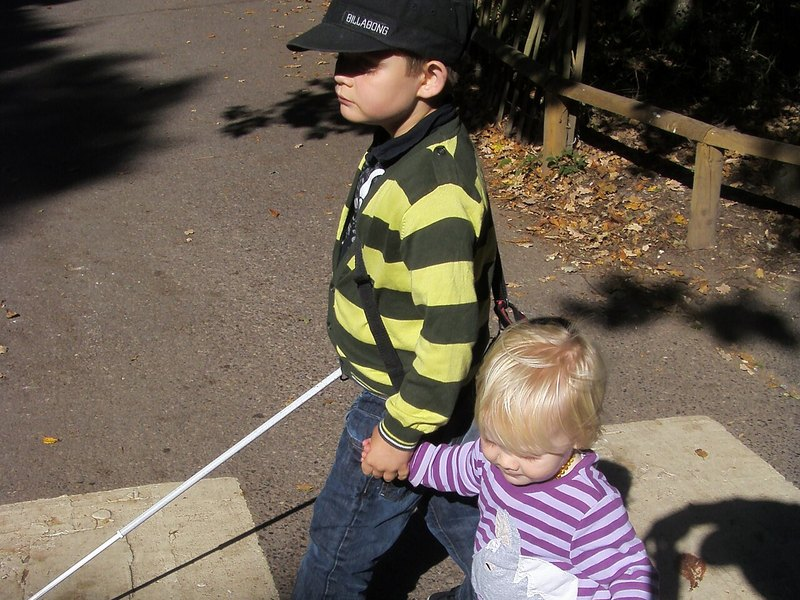
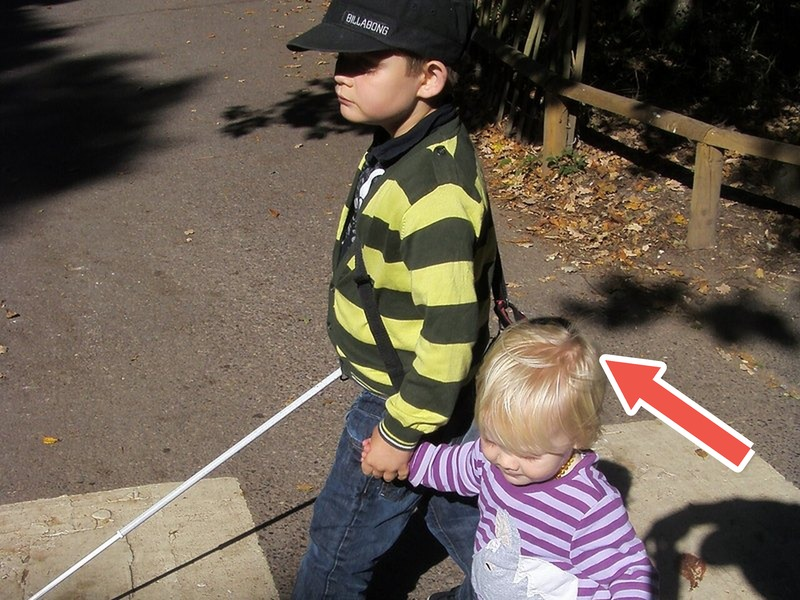
cards: 第25巻の언니を女の子どうしの姉妹に見える写真（Basile Morin・CC BY-SA 4.0）に、누나を女の子のほうが大きく男の子が小さい写真（MacGraceSmez・CC BY-SA 4.0）に差し替え、언니・오빠・누나・형・동생 の5語に白フチ付きのコーラル色の矢印を加筆・PHOTO_VER=17・クレジット更新

Changed region(s): [[0.75, 0.57, 0.9375, 0.81]]

diff --git a/cards.html b/cards.html
@@ -1175,11 +1175,11 @@ var VOLUMES = [
   "25-appa": { f: "assets/photos/v25-appa.jpg", a: "Onkelbo~commonswiki", l: "CC BY-SA 3.0", u: "https://commons.wikimedia.org/wiki/File:Father_and_son_27.jpg" },
   "25-halmeoni": { f: "assets/photos/v25-halmeoni.jpg", a: "Split the Kipper", l: "CC BY 2.0", u: "https://commons.wikimedia.org/wiki/File:Grandmas_90th_Birthday-36.jpg" },
   "25-harabeoji": { f: "assets/photos/v25-harabeoji.jpg", a: "Bogdanov-62", l: "CC BY-SA 3.0", u: "https://commons.wikimedia.org/wiki/File:Grandfather_rus.jpg" },
-  "25-eonni": { f: "assets/photos/v25-eonni.jpg", a: "Jamie Rudolph", l: "CC BY-SA 4.0", u: "https://commons.wikimedia.org/wiki/File:Jamie_and_Nora_Rudolph.JPG" },
-  "25-oppa": { f: "assets/photos/v25-oppa.jpg", a: "Rod Waddington from Kergunyah, Australia", l: "CC BY-SA 2.0", u: "https://commons.wikimedia.org/wiki/File:Brother_and_Sister,_Yemen_(10569460956).jpg" },
-  "25-nuna": { f: "assets/photos/v25-nuna.jpg", a: "Celebindiaworld", l: "CC BY-SA 4.0", u: "https://commons.wikimedia.org/wiki/File:Siblings_brother_and_sister.jpg" },
-  "25-hyeong": { f: "assets/photos/v25-hyeong.jpg", a: "Luis Miguel Bugallo Sánchez", l: "CC BY-SA 4.0", u: "https://commons.wikimedia.org/wiki/File:Irm%C3%A1ns._S%C3%B3_os_irm%C3%A1ns_se_comportan_as%C3%AD_-_1.jpg" },
-  "25-dongsaeng": { f: "assets/photos/v25-dongsaeng.jpg", a: "Sariain", l: "Public domain", u: "https://commons.wikimedia.org/wiki/File:Lucas_Murray.jpg" },
+  "25-eonni": { f: "assets/photos/v25-eonni.jpg", a: "Basile Morin", l: "CC BY-SA 4.0", u: "https://commons.wikimedia.org/wiki/File:Two_little_Lao_girls_hugging.jpg", m: "矢印を加筆" },
+  "25-oppa": { f: "assets/photos/v25-oppa.jpg", a: "Rod Waddington from Kergunyah, Australia", l: "CC BY-SA 2.0", u: "https://commons.wikimedia.org/wiki/File:Brother_and_Sister,_Yemen_(10569460956).jpg", m: "矢印を加筆" },
+  "25-nuna": { f: "assets/photos/v25-nuna.jpg", a: "MacGraceSmez", l: "CC BY-SA 4.0", u: "https://commons.wikimedia.org/wiki/File:Brother-sister_love.jpg", m: "矢印を加筆" },
+  "25-hyeong": { f: "assets/photos/v25-hyeong.jpg", a: "Luis Miguel Bugallo Sánchez", l: "CC BY-SA 4.0", u: "https://commons.wikimedia.org/wiki/File:Irm%C3%A1ns._S%C3%B3_os_irm%C3%A1ns_se_comportan_as%C3%AD_-_1.jpg", m: "矢印を加筆" },
+  "25-dongsaeng": { f: "assets/photos/v25-dongsaeng.jpg", a: "Sariain", l: "Public domain", u: "https://commons.wikimedia.org/wiki/File:Lucas_Murray.jpg", m: "矢印を加筆" },
   "25-agi": { f: "assets/photos/v25-agi.jpg", a: "Moinul548", l: "CC BY-SA 4.0", u: "https://commons.wikimedia.org/wiki/File:Smiling_baby_lying_on_towel.jpg" },
   "25-imo": { f: "assets/photos/v25-imo.jpg", a: "Daisy Romwall from Morro Bay, United States", l: "CC BY-SA 2.0", u: "https://commons.wikimedia.org/wiki/File:April_and_her_little_niece_Lorelei.jpg" },
   "25-samchon": { f: "assets/photos/v25-samchon.jpg", a: "AliGharehdaghli", l: "CC BY-SA 4.0", u: "https://commons.wikimedia.org/wiki/File:Aligharehdaghli.jpg" },
@@ -1194,7 +1194,7 @@ var VOLUMES = [
   /* 音声ファイルを追加したら、この数字を上げてください（ブラウザに残った古い404を避けるため） */
   var AUDIO_VER = "2";
   /* 写真を差し替えたら、この数字を上げてください（ブラウザに残った古い画像を避けるため） */
-  var PHOTO_VER = "16";
+  var PHOTO_VER = "17";
   var LANG_KEY = "levelupk_cards_lang";
   var probeCache = {};
   var lang = "ja";

diff --git a/assets/photos/CREDITS.md b/assets/photos/CREDITS.md
@@ -17,6 +17,7 @@ CC BY / CC BY-SA の写真は、カードの下に「写真：作者 ／ Wikimed
 第18巻（かぐ）の 책상 は、コンピューターや雑貨の少ない、机そのものが主役の写真に、옷장 は、扉を開けて服が見える写真に、2026-11-26 に差し替えました。同じ第18巻の最後の4語は、이불（ふとん）→사이드 테이블、베개（まくら）→자개장（らでんたんす、メトロポリタン美術館所蔵）、커튼（カーテン）→붙박이장（つくりつけクローゼット）、카펫（カーペット）→찬장（しょっきだな）に、ことばごと入れ替えました（2026-11-26）。찬장 は縦長の写真なので、左右の壁をのばして 800×600 に収めました。
 第22巻（やさい）の 오이・감자・고구마 は、2026-11-26 に、오이 は ズッキーニと まぎらわしかった写真から 細長く いぼのある きゅうりに、감자 は 赤い皮の品種から ふつうの 黄褐色の じゃがいもに、고구마 は 色の うすい オレンジの皮から 濃い むらさき色の皮の さつまいもに 差し替えました。
 第23巻（ようちえん・ぶんぐ）の 공책 は、2026-11-26 に、ノートの横に置かれていたペンを消して背景を作り直しました（ノートとそのステッカー、背景は元の写真のまま）。
+第25巻（かぞく）の 언니 は、2026-11-26 に、弟に見える子との写真から、女の子どうしの姉妹に見える写真（ラオスの女の子2人、Basile Morin・CC BY-SA 4.0）に差し替えました。누나 も同じ日に、男の子のほうが大きかった写真から、女の子のほうが大きく男の子が小さい写真（MacGraceSmez・CC BY-SA 4.0）に差し替えました。この2語と、오빠・형・동생 の5語すべてに、どちらが 언니・오빠・누나・형・동생 かが一目で分かるように、白フチ付きのコーラル色の矢印を、対象の子を隠さない位置に描き足しています（CC BY-SAの写真は改変したことをライセンス欄に明記）。
 
 | 巻 | ファイル | ことば | 元のファイル | 作者 | ライセンス | 出典 |
 |---|---|---|---|---|---|---|
@@ -373,11 +374,11 @@ CC BY / CC BY-SA の写真は、カードの下に「写真：作者 ／ Wikimed
 | 第25巻 かぞく | v25-appa.jpg | 아빠（おとうさん） | Father and son 27.jpg | Onkelbo~commonswiki | CC BY-SA 3.0 | [Commons](https://commons.wikimedia.org/wiki/File:Father_and_son_27.jpg) |
 | 第25巻 かぞく | v25-halmeoni.jpg | 할머니（おばあちゃん） | Grandmas 90th Birthday-36.jpg | Split the Kipper | CC BY 2.0 | [Commons](https://commons.wikimedia.org/wiki/File:Grandmas_90th_Birthday-36.jpg) |
 | 第25巻 かぞく | v25-harabeoji.jpg | 할아버지（おじいちゃん） | Grandfather rus.jpg | Bogdanov-62 | CC BY-SA 3.0 | [Commons](https://commons.wikimedia.org/wiki/File:Grandfather_rus.jpg) |
-| 第25巻 かぞく | v25-eonni.jpg | 언니（おねえちゃん） | Jamie and Nora Rudolph.JPG | Jamie Rudolph | CC BY-SA 4.0 | [Commons](https://commons.wikimedia.org/wiki/File:Jamie_and_Nora_Rudolph.JPG) |
-| 第25巻 かぞく | v25-oppa.jpg | 오빠（おにいちゃん） | Brother and Sister, Yemen (10569460956).jpg | Rod Waddington from Kergunyah, Australia | CC BY-SA 2.0 | [Commons](https://commons.wikimedia.org/wiki/File:Brother_and_Sister,_Yemen_(10569460956).jpg) |
-| 第25巻 かぞく | v25-nuna.jpg | 누나（おねえちゃん） | Siblings brother and sister.jpg | Celebindiaworld | CC BY-SA 4.0 | [Commons](https://commons.wikimedia.org/wiki/File:Siblings_brother_and_sister.jpg) |
-| 第25巻 かぞく | v25-hyeong.jpg | 형（おにいちゃん） | Irmáns. Só os irmáns se comportan así - 1.jpg | Luis Miguel Bugallo Sánchez | CC BY-SA 4.0 | [Commons](https://commons.wikimedia.org/wiki/File:Irm%C3%A1ns._S%C3%B3_os_irm%C3%A1ns_se_comportan_as%C3%AD_-_1.jpg) |
-| 第25巻 かぞく | v25-dongsaeng.jpg | 동생（おとうと・いもうと） | Lucas Murray.jpg | Sariain | Public domain | [Commons](https://commons.wikimedia.org/wiki/File:Lucas_Murray.jpg) |
+| 第25巻 かぞく | v25-eonni.jpg | 언니（おねえちゃん） | Two little Lao girls hugging.jpg | Basile Morin | CC BY-SA 4.0（矢印を加筆） | [Commons](https://commons.wikimedia.org/wiki/File:Two_little_Lao_girls_hugging.jpg) |
+| 第25巻 かぞく | v25-oppa.jpg | 오빠（おにいちゃん） | Brother and Sister, Yemen (10569460956).jpg | Rod Waddington from Kergunyah, Australia | CC BY-SA 2.0（矢印を加筆） | [Commons](https://commons.wikimedia.org/wiki/File:Brother_and_Sister,_Yemen_(10569460956).jpg) |
+| 第25巻 かぞく | v25-nuna.jpg | 누나（おねえちゃん） | Brother-sister love.jpg | MacGraceSmez | CC BY-SA 4.0（矢印を加筆） | [Commons](https://commons.wikimedia.org/wiki/File:Brother-sister_love.jpg) |
+| 第25巻 かぞく | v25-hyeong.jpg | 형（おにいちゃん） | Irmáns. Só os irmáns se comportan así - 1.jpg | Luis Miguel Bugallo Sánchez | CC BY-SA 4.0（矢印を加筆） | [Commons](https://commons.wikimedia.org/wiki/File:Irm%C3%A1ns._S%C3%B3_os_irm%C3%A1ns_se_comportan_as%C3%AD_-_1.jpg) |
+| 第25巻 かぞく | v25-dongsaeng.jpg | 동생（おとうと・いもうと） | Lucas Murray.jpg | Sariain | Public domain（矢印を加筆） | [Commons](https://commons.wikimedia.org/wiki/File:Lucas_Murray.jpg) |
 | 第25巻 かぞく | v25-agi.jpg | 아기（あかちゃん） | Smiling baby lying on towel.jpg | Moinul548 | CC BY-SA 4.0 | [Commons](https://commons.wikimedia.org/wiki/File:Smiling_baby_lying_on_towel.jpg) |
 | 第25巻 かぞく | v25-imo.jpg | 이모（おばさん） | April and her little niece Lorelei.jpg | Daisy Romwall from Morro Bay, United States | CC BY-SA 2.0 | [Commons](https://commons.wikimedia.org/wiki/File:April_and_her_little_niece_Lorelei.jpg) |
 | 第25巻 かぞく | v25-samchon.jpg | 삼촌（おじさん） | Aligharehdaghli.jpg | AliGharehdaghli | CC BY-SA 4.0 | [Commons](https://commons.wikimedia.org/wiki/File:Aligharehdaghli.jpg) |
